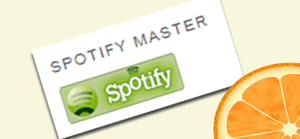
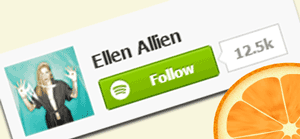
wordpress 3.9.1
git-svn-id: https://plugins.svn.wordpress.org/spotify-master/trunk@917546 b8457f37-d9ea-0310-8a92-e5e31aec5664

diff --git a/includes/spotify-master-widget-buttons.php b/includes/spotify-master-widget-buttons.php
@@ -15,15 +15,24 @@ class spotify_master_widget_buttons extends WP_Widget {
 	
 	function widget( $args, $instance ) {
 		extract( $args );
+		//Set Network Options
+		$spotify_master_load_size_basic = "spotify_master_load_size_basic";
+		update_option ('spotify_master_load_size_basic', $spotify_master_load_size_basic);
+		$spotify_master_load_size_detailed = "spotify_master_load_size_detailed";
+		update_option ('spotify_master_load_size_detailed', $spotify_master_load_size_detailed);
+		$spotify_master_load_theme_light = "spotify_master_load_theme_light";
+		update_option ('spotify_master_load_theme_light', $spotify_master_load_theme_light);
+		$spotify_master_load_theme_dark = "spotify_master_load_theme_dark";
+		update_option ('spotify_master_load_theme_dark', $spotify_master_load_theme_dark);
 		//Our variables from the widget settings.
 		$spotify_title = isset( $instance['spotify_title'] ) ? $instance['spotify_title'] :false;
 		$spotify_title_new = isset( $instance['spotify_title_new'] ) ? $instance['spotify_title_new'] :false;
-		$spotifyspacer ="'";
-		$url_loc = plugins_url();
 		$show_spotifybutton = isset( $instance['show_spotifybutton'] ) ? $instance['show_spotifybutton'] :false;
-		$spotifybutton_page = $instance['spotifybutton_page'];
+		$spotifybutton_uri = isset( $instance['spotifybutton_uri'] ) ? $instance['spotifybutton_uri'] :false;
+		$spotifybutton_size_choice = isset( $instance['spotifybutton_size_choice'] ) ? $instance['spotifybutton_size_choice'] :false;
+		$spotifybutton_theme_choice = isset( $instance['spotifybutton_theme_choice'] ) ? $instance['spotifybutton_theme_choice'] :false;
+		$spotifybutton_count = isset( $instance['spotifybutton_count'] ) ? $instance['spotifybutton_count'] :false;
 		echo $before_widget;
-		
 	// Display the widget title
 		if ( $spotify_title ){
 			if (empty ($spotify_title_new)){
@@ -35,7 +44,27 @@ class spotify_master_widget_buttons extends WP_Widget {
 		}
 	//Display Spotify Profile Button
 		if ( $show_spotifybutton ){
-		echo '<a href="'.$spotifybutton_page.'" target="_blank"><img src="'.$url_loc.'/spotify-master/images/techgasp-spotify-button.png"></a>';
+			if ( get_option('spotifybutton_size_choice') == "spotify_master_load_size_basic" ){
+				$spotifybutton_size_create = 'basic';
+				$spotifybutton_size_pixels = 'width="200" height="25"';
+			}
+			if ( get_option('spotifybutton_size_choice') == 'spotify_master_load_size_detailed' ){
+				$spotifybutton_size_create = 'detail';
+				$spotifybutton_size_pixels = 'width="300" height="56"';
+			}
+			if ( get_option('spotifybutton_theme_choice') == "spotify_master_load_theme_light" ){
+				$spotifybutton_theme_create = 'light';
+			}
+			if ( get_option('spotifybutton_theme_choice') == 'spotify_master_load_theme_dark' ){
+				$spotifybutton_theme_create = 'dark';
+			}
+			if ( $spotifybutton_count){
+			$spotifybutton_count_create = false;
+			}
+			else{
+			$spotifybutton_count_create = '&show-count=0';
+			}
+		echo '<iframe src="https://embed.spotify.com/follow/1/?uri='.$spotifybutton_uri.'&size='.$spotifybutton_size_create.'&theme='.$spotifybutton_theme_create.''.$spotifybutton_count_create.'" '.$spotifybutton_size_pixels.' scrolling="no" frameborder="0" style="border:none; overflow:hidden;" allowtransparency="true"></iframe>';
 		}
 		else{
 		}
@@ -48,12 +77,17 @@ class spotify_master_widget_buttons extends WP_Widget {
 		$instance['spotify_title'] = strip_tags( $new_instance['spotify_title'] );
 		$instance['spotify_title_new'] = $new_instance['spotify_title_new'];
 		$instance['show_spotifybutton'] = $new_instance['show_spotifybutton'];
-		$instance['spotifybutton_page'] = $new_instance['spotifybutton_page'];
+		$instance['spotifybutton_uri'] = $new_instance['spotifybutton_uri'];
+		$instance['spotifybutton_size_choice'] = $new_instance['spotifybutton_size_choice'];
+		update_option('spotifybutton_size_choice', $new_instance['spotifybutton_size_choice']);
+		$instance['spotifybutton_theme_choice'] = $new_instance['spotifybutton_theme_choice'];
+		update_option('spotifybutton_theme_choice', $new_instance['spotifybutton_theme_choice']);
+		$instance['spotifybutton_count'] = $new_instance['spotifybutton_count'];
 		return $instance;
 	}
 	function form( $instance ) {
 	//Set up some default widget settings.
-	$defaults = array( 'spotify_title_new' => __('Spotify Master', 'spotify_master'), 'spotify_title' => true, 'spotify_title_new' => false, 'show_spotifybutton' => false, 'spotifybutton_page' => false );
+	$defaults = array( 'spotify_title_new' => __('Spotify Master', 'spotify_master'), 'spotify_title' => true, 'spotify_title_new' => false, 'show_spotifybutton' => false, 'spotifybutton_uri' => false, 'spotifybutton_size_choice' => false, 'spotifybutton_theme_choice' => false, 'spotifybutton_count' => true );
 	$instance = wp_parse_args( (array) $instance, $defaults );
 	?>
 		<br>
@@ -75,10 +109,29 @@ class spotify_master_widget_buttons extends WP_Widget {
 	&nbsp;
 	<input type="checkbox" <?php checked( (bool) $instance['show_spotifybutton'], true ); ?> id="<?php echo $this->get_field_id( 'show_spotifybutton' ); ?>" name="<?php echo $this->get_field_name( 'show_spotifybutton' ); ?>" />
 	<label for="<?php echo $this->get_field_id( 'show_spotifybutton' ); ?>"><b><?php _e('Spotify Profile Button', 'spotify_master'); ?></b></label><br>
+	<p>
+	<label for="<?php echo $this->get_field_id( 'spotifybutton_uri' ); ?>"><?php _e('insert Spotify Profile URI:', 'spotify_master'); ?></label></br>
+	<input id="<?php echo $this->get_field_id( 'spotifybutton_uri' ); ?>" name="<?php echo $this->get_field_name( 'spotifybutton_uri' ); ?>" value="<?php echo $instance['spotifybutton_uri']; ?>" style="width:auto;" />
+	<div class="description">User or Artist URI example:</div>
+	<div class="description"><b>spotify:artist:1vCWHaC5f2uS3yhpwWbIA6</b></div>
 	</p>
 	<p>
-	<label for="<?php echo $this->get_field_id( 'spotifybutton_page' ); ?>"><?php _e('insert your Spotify Profile Link:', 'spotify_master'); ?></label></br>
-	<input id="<?php echo $this->get_field_id( 'spotifybutton_page' ); ?>" name="<?php echo $this->get_field_name( 'spotifybutton_page' ); ?>" value="<?php echo $instance['spotifybutton_page']; ?>" style="width:auto;" />
+	<select id="<?php echo $this->get_field_id( 'spotifybutton_size_choice' ); ?>" name="<?php echo $this->get_field_name( 'spotifybutton_size_choice' ); ?>" style="width:140px">
+	<option value="<?php echo get_option('spotify_master_load_size_detailed'); ?>" <?php echo get_option('spotifybutton_size_choice') == 'spotify_master_load_size_detailed' ? 'selected="selected"':''; ?>>Detailed Button</option>
+	<option value="<?php echo get_option('spotify_master_load_size_basic'); ?>" <?php echo get_option('spotifybutton_size_choice') == 'spotify_master_load_size_basic' ? 'selected="selected"':''; ?>>Basic Button</option>
+	</select>
+	<label for="<?php echo $this->get_field_id( 'spotifybutton_size_choice' ); ?>"><?php _e('Select Button Detail', 'spotify_master'); ?></label></br>
+	</p>
+	<p>
+	<select id="<?php echo $this->get_field_id( 'spotifybutton_theme_choice' ); ?>" name="<?php echo $this->get_field_name( 'spotifybutton_theme_choice' ); ?>" style="width:140px">
+	<option value="<?php echo get_option('spotify_master_load_theme_light'); ?>" <?php echo get_option('spotifybutton_theme_choice') == 'spotify_master_load_theme_light' ? 'selected="selected"':''; ?>>Light Theme</option>
+	<option value="<?php echo get_option('spotify_master_load_theme_dark'); ?>" <?php echo get_option('spotifybutton_theme_choice') == 'spotify_master_load_theme_dark' ? 'selected="selected"':''; ?>>Dark Theme</option>
+	</select>
+	<label for="<?php echo $this->get_field_id( 'spotifybutton_theme_choice' ); ?>"><?php _e('Select Button Theme', 'spotify_master'); ?></label></br>
+	</p>
+	</p>
+	<input type="checkbox" <?php checked( (bool) $instance['spotifybutton_count'], true ); ?> id="<?php echo $this->get_field_id( 'spotifybutton_count' ); ?>" name="<?php echo $this->get_field_name( 'spotifybutton_count' ); ?>" />
+	<label for="<?php echo $this->get_field_id( 'spotifybutton_count' ); ?>"><b><?php _e('Activate Bubble Count', 'spotify_master'); ?></b></label><br>
 	</p>
 <div style="background: url(<?php echo plugins_url('../images/techgasp-hr.png', __FILE__); ?>) repeat-x; height: 10px"></div>
 		<p>
@@ -86,7 +139,7 @@ class spotify_master_widget_buttons extends WP_Widget {
 		&nbsp;
 		<b><?php echo get_option('spotify_master_name'); ?> Website</b>
 		</p>
-		<p><a class="button-secondary" href="http://wordpress.techgasp.com/spotify-master/" target="_blank" title="<?php echo get_option('spotify_master_name'); ?> Info Page">Info Page</a> <a class="button-secondary" href="http://wordpress.techgasp.com/spotify-master-documentation/" target="_blank" title="<?php echo get_option('spotify_master_name'); ?> Documentation">Documentation</a> <a class="button-primary" href="http://wordpress.techgasp.com/spotify-master/" target="_blank" title="Visit Website">Get Add-ons</a></p>
+		<p><a class="button-secondary" href="http://wordpress.techgasp.com/spotify-master/" target="_blank" title="<?php echo get_option('spotify_master_name'); ?> Info Page">Info Page</a> <a class="button-secondary" href="http://wordpress.techgasp.com/spotify-master-documentation/" target="_blank" title="<?php echo get_option('spotify_master_name'); ?> Documentation">Documentation</a> <a class="button-primary" href="http://wordpress.org/plugins/spotify-master/" target="_blank" title="<?php echo get_option('spotify_master_name'); ?> Wordpress">RATE US *****</a></p>
 	<?php
 	}
  }

diff --git a/spotify-master.php b/spotify-master.php
@@ -2,7 +2,7 @@
 /**
 Plugin Name: Spotify Master
 Plugin URI: http://wordpress.techgasp.com/spotify-master/
-Version: 4.3.6
+Version: 4.3.7
 Author: TechGasp
 Author URI: http://wordpress.techgasp.com
 Text Domain: spotify-master
@@ -28,9 +28,9 @@ if(!class_exists('spotify_master')) :
 ///////DEFINE ID//////
 define('SPOTIFY_MASTER_ID', 'spotify-master');
 ///////DEFINE VERSION///////
-define( 'spotify_master_VERSION', '4.3.6' );
+define( 'spotify_master_VERSION', '4.3.7' );
 global $spotify_master_version, $spotify_master_name;
-$spotify_master_version = "4.3.6"; //for other pages
+$spotify_master_version = "4.3.7"; //for other pages
 $spotify_master_name = "Spotify Master"; //pretty name
 if( is_multisite() ) {
 update_site_option( 'spotify_master_installed_version', $spotify_master_version );
